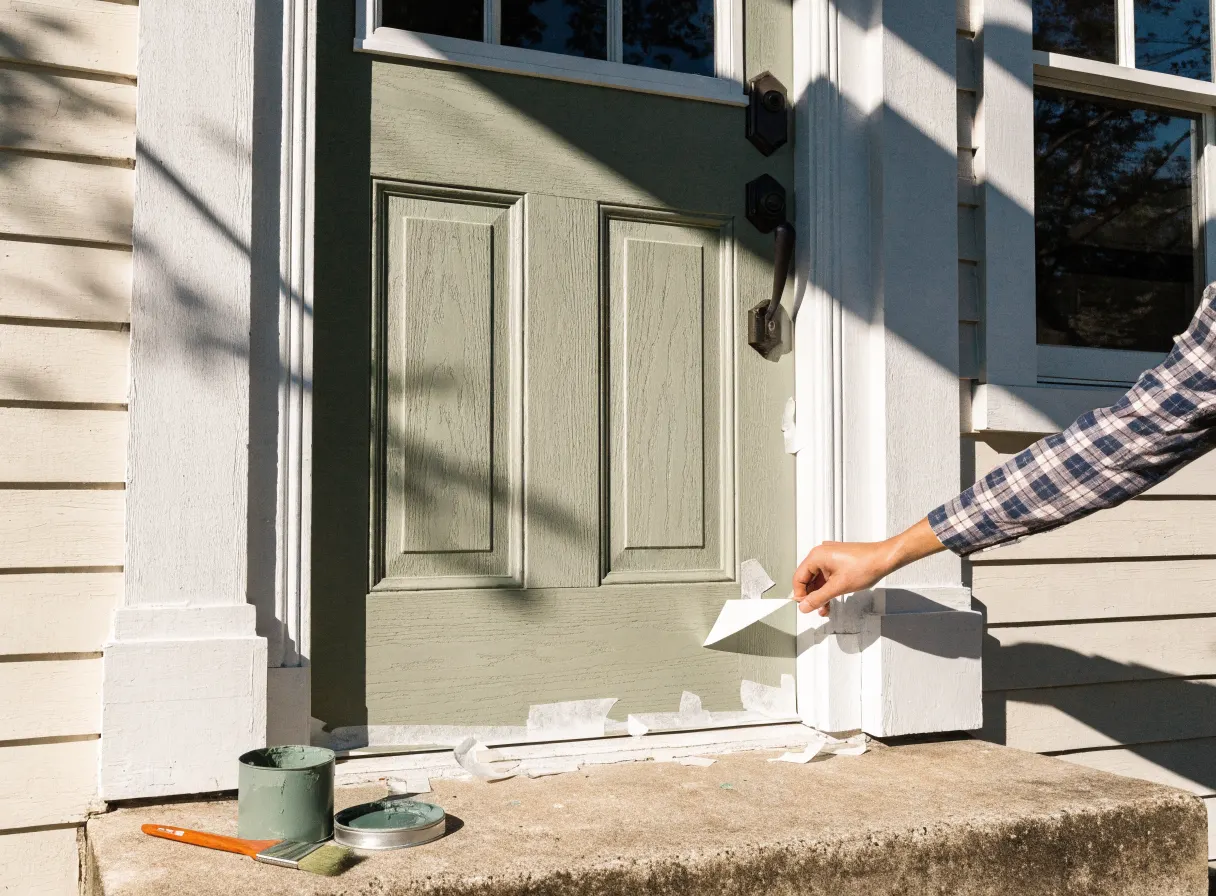
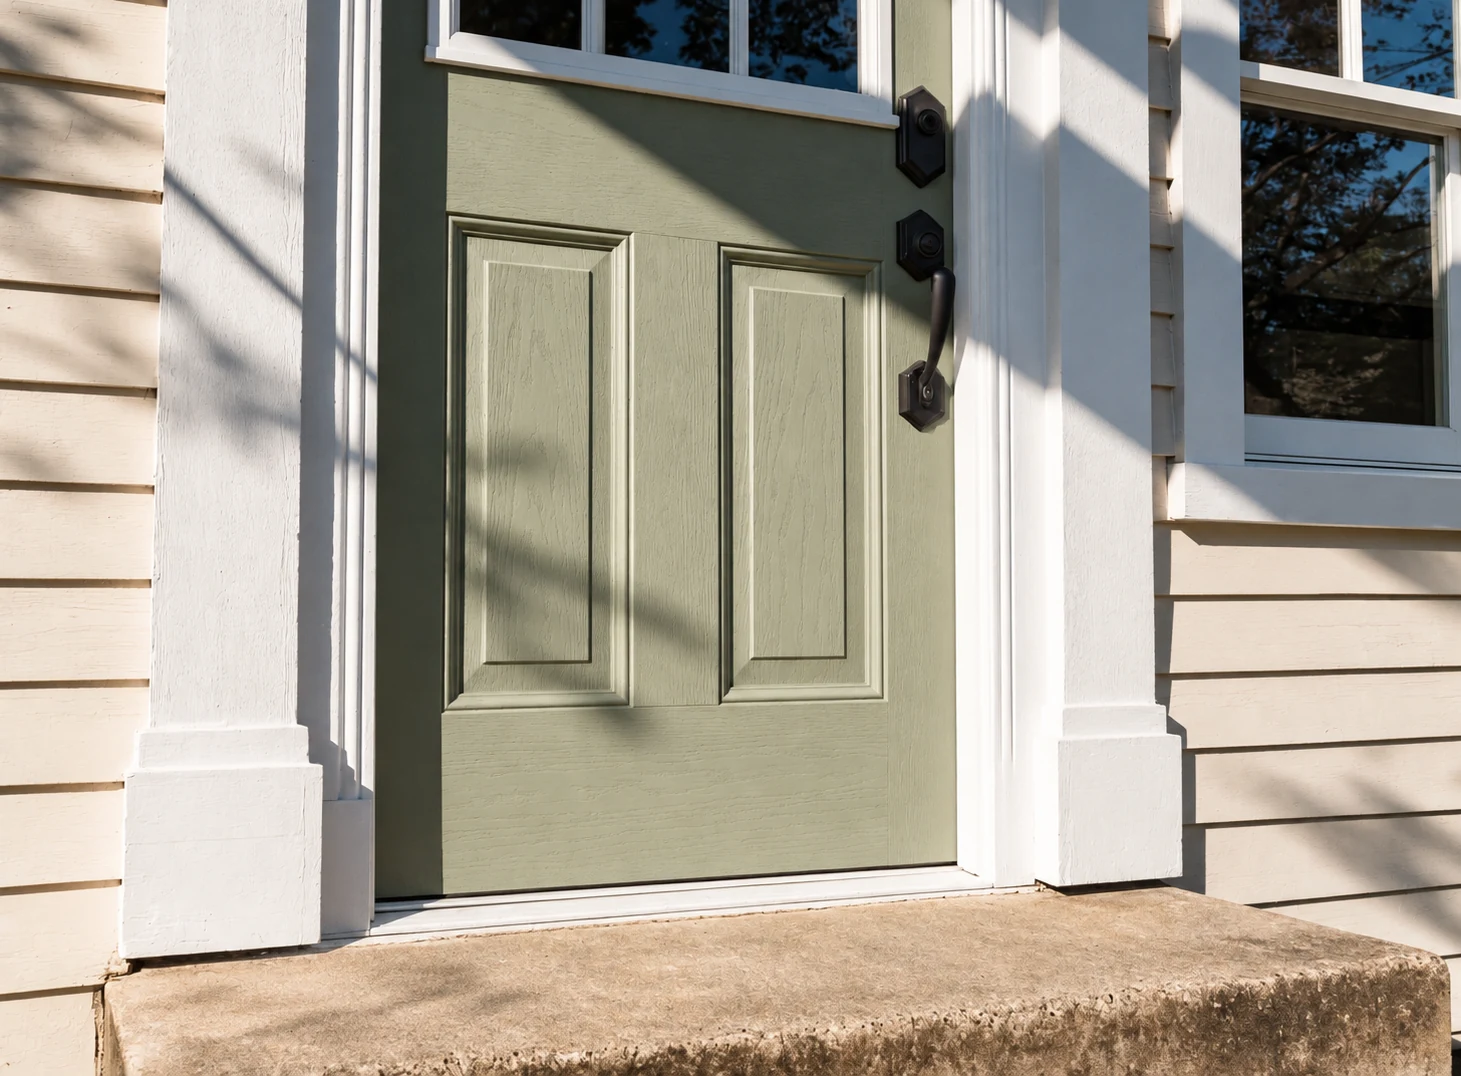
Fix visual review regressions, complete image assets and refine small-screen navigation

diff --git a/app/family.css b/app/family.css
@@ -197,7 +197,7 @@
  * then tracked-out uppercase. It tells a skimming reader what KIND of section
  * they have landed on before they read a word of the heading.
  */
-:where(.ed-eyebrow) {
+html :where(.ed-eyebrow) {
   display: flex;
   align-items: center;
   gap: 12px;
@@ -209,34 +209,34 @@
   line-height: 1.2;
   text-transform: uppercase;
 }
-:where(.ed-eyebrow)::before {
+html :where(.ed-eyebrow)::before {
   flex: 0 0 auto;
   width: 28px;
   height: 1px;
   background: currentColor;
   content: "";
 }
-:where(.ed-eyebrow-accent) { color: var(--ed-accent); }
+html :where(.ed-eyebrow-accent) { color: var(--ed-accent); }
 
-:where(.ed-display),
-:where(.ed-h2),
-:where(.ed-h2-sm),
-:where(.ed-h3) {
+html :where(.ed-display),
+html :where(.ed-h2),
+html :where(.ed-h2-sm),
+html :where(.ed-h3) {
   font-family: var(--font-cormorant, Georgia, serif);
   font-weight: 400;
   letter-spacing: var(--ed-tracking-display);
   text-wrap: balance;
 }
-:where(.ed-display) { font-size: var(--ed-fs-display); line-height: var(--ed-lh-display); }
-:where(.ed-h2) { font-size: var(--ed-fs-h2); line-height: 0.98; }
-:where(.ed-h2-sm) { font-size: var(--ed-fs-h2-sm); line-height: 1.02; }
-:where(.ed-h3) {
+html :where(.ed-display) { font-size: var(--ed-fs-display); line-height: var(--ed-lh-display); }
+html :where(.ed-h2) { font-size: var(--ed-fs-h2); line-height: 0.98; }
+html :where(.ed-h2-sm) { font-size: var(--ed-fs-h2-sm); line-height: 1.02; }
+html :where(.ed-h3) {
   font-size: var(--ed-fs-h3);
   font-weight: 500;
   letter-spacing: -0.02em;
   line-height: var(--ed-lh-heading);
 }
-:where(.ed-h4) {
+html :where(.ed-h4) {
   font-family: var(--font-cormorant, Georgia, serif);
   font-size: var(--ed-fs-h4);
   font-weight: 600;
@@ -245,10 +245,10 @@
 }
 
 /* Spacing is a default. Page-level mt/mb utilities must win. */
-:where(.ed-display, .ed-h2, .ed-h3, .ed-h4, .ed-lede, .ed-body) { margin: 0; }
+html :where(.ed-display, .ed-h2, .ed-h3, .ed-h4, .ed-lede, .ed-body) { margin: 0; }
 
 /* The serif lede: one short paragraph that carries the weight of the heading. */
-:where(.ed-lede) {
+html :where(.ed-lede) {
   font-family: var(--font-cormorant, Georgia, serif);
   font-size: var(--ed-fs-lede);
   font-weight: 500;
@@ -256,15 +256,15 @@
   text-wrap: pretty;
 }
 
-:where(.ed-body) {
+html :where(.ed-body) {
   max-width: 58ch;
   color: var(--ed-muted-ink);
   font-size: var(--ed-fs-body);
   line-height: var(--ed-lh-body);
   text-wrap: pretty;
 }
-:where(.ed-body + .ed-body) { margin-top: 1.1em; }
-:where(.ed-small) {
+html :where(.ed-body + .ed-body) { margin-top: 1.1em; }
+html :where(.ed-small) {
   color: var(--ed-muted-ink);
   font-size: var(--ed-fs-small);
   line-height: 1.6;

diff --git a/app/about/page.tsx b/app/about/page.tsx
@@ -65,21 +65,6 @@ function HeroBreadcrumbs() {
   );
 }
 
-function StatCard({ num, label }: { num: string; label: string }) {
-  /* Phones: a plain cell inside the strip the container draws. Boxed and
-     three-up, the labels wrapped onto three or four lines each. */
-  return (
-    <div className="px-2 py-3 text-center md:px-6 md:py-5 md:text-left md:rounded-sm md:bg-inverse/50 md:border md:border-inverse-foreground/20 md:backdrop-blur-md">
-      <DisplayNum className="text-inverse-foreground text-lg md:text-3xl leading-none">
-        {num}
-      </DisplayNum>
-      <div className="mt-1.5 text-[0.625rem] leading-tight tracking-[0.08em] md:text-label md:tracking-[0.1em] uppercase text-inverse-foreground/85 md:leading-snug">
-        {label}
-      </div>
-    </div>
-  );
-}
-
 export const metadata = buildPageMetadata({
   kind: 'about',
   path: '/about',
@@ -116,7 +101,7 @@ export default function AboutPage() {
             priority
           />
           <div className="absolute inset-0 pointer-events-none bg-gradient-to-t from-inverse/90 via-inverse/60 to-transparent" />
-          <div className="absolute inset-0 pointer-events-none bg-gradient-to-r from-inverse/60 via-inverse/15 to-transparent" />
+          <div className="absolute inset-0 pointer-events-none bg-gradient-to-r from-inverse/90 via-inverse/60 to-inverse/10" />
           <div className="absolute inset-x-0 top-0 h-44 pointer-events-none bg-gradient-to-b from-inverse/70 via-inverse/30 to-transparent" />
           <div className="absolute inset-x-0 bottom-0 h-24 pointer-events-none bg-gradient-to-t from-background via-background/40 to-transparent" />
           <div
@@ -153,11 +138,14 @@ export default function AboutPage() {
                 <a href="/#consult">{CTA_SECONDARY}</a>
               </Button>
             </div>
-            <div className="grid grid-cols-3 max-w-xl divide-x divide-inverse-foreground/15 rounded-sm border border-inverse-foreground/20 bg-inverse/55 backdrop-blur-md md:gap-3 md:divide-x-0 md:rounded-none md:border-0 md:bg-transparent md:backdrop-blur-none">
+            <dl className="ed-hero-facts">
               {HERO_STATS.map((stat) => (
-                <StatCard key={stat.num} num={stat.num} label={stat.label} />
+                <div key={stat.label}>
+                  <dt>{stat.label}</dt>
+                  <dd>{stat.num}</dd>
+                </div>
               ))}
-            </div>
+            </dl>
           </div>
         </section>
 

diff --git a/components/Navigation.tsx b/components/Navigation.tsx
@@ -154,7 +154,7 @@ export function Navigation() {
                 <Button
                   variant="ghost"
                   size="icon"
-                  className="h-11 w-11"
+                  className="h-11 w-11 shrink-0"
                   aria-label="Open navigation menu"
                   data-testid="button-mobile-menu-open"
                 >
@@ -174,13 +174,13 @@ export function Navigation() {
                   </Dialog.Description>
 
                   {/* Header row */}
-                  <div className="flex items-center justify-between px-6 h-[60px] border-b border-border/40 shrink-0">
+                  <div className="flex items-center justify-between gap-3 px-4 h-[60px] border-b border-border/40 shrink-0 [&_img]:max-w-[65vw] [&_img]:h-auto">
                     <Logo />
                     <Dialog.Close asChild>
                       <Button
                         variant="ghost"
                         size="icon"
-                        className="h-11 w-11"
+                        className="h-11 w-11 shrink-0"
                         aria-label="Close navigation menu"
                         data-testid="button-mobile-menu-close"
                       >

diff --git a/app/services/page.tsx b/app/services/page.tsx
@@ -73,7 +73,7 @@ export default function ServicesIndexPage() {
 
       <PageHeroBand
         imageSrc={SITE_IMAGES.statementBand}
-        imageAlt="Well-maintained Treasure Valley home interior after a handyman visit"
+        imageAlt="Representative service image of a Boise Handyman Co worker painting window trim"
       >
         <Breadcrumbs items={[{ name: 'Home', href: '/' }, { name: 'Services' }]} />
         <p className="ed-eyebrow mt-8" style={{ color: 'rgb(255 255 255 / 0.72)' }}>Our services</p>
@@ -104,7 +104,7 @@ export default function ServicesIndexPage() {
                 <div className="relative min-h-[clamp(280px,38vw,460px)] overflow-hidden">
                   <Image
                     src={getServiceBackground(lead.slug)}
-                    alt={`${lead.name} handyman service by ${SITE_CONFIG.name}`}
+                    alt={`Representative ${lead.name.toLowerCase()} service imagery`}
                     fill
                     sizes="(max-width: 1024px) 100vw, 55vw"
                     quality={72}

diff --git a/shared/blogImageRegistry.ts b/shared/blogImageRegistry.ts
@@ -115,7 +115,7 @@ export const BLOG_IMAGE_REGISTRY: Record<string, BlogImageEntry> = {
   },
   'home-repairs-before-selling-boise': {
     hero: '/images/handyman/front-door-repaint.webp',
-    alt: 'Freshly repainted sage green craftsman front door with painter\'s tape being peeled away',
+    alt: 'Representative freshly repainted sage-green front door with white trim and black hardware',
     topicTags: ["home repairs","selling a house","boise","punch list","repairs"],
     source: 'handyman',
   },
@@ -151,7 +151,7 @@ export const BLOG_IMAGE_REGISTRY: Record<string, BlogImageEntry> = {
   },
   'interior-paint-touch-up-guide': {
     hero: '/images/handyman/service-painting.webp',
-    alt: 'Painter cutting in crisp paint along white window trim with an angled brush and painter\'s tape',
+    alt: 'Representative Boise Handyman Co worker painting white window trim over a protective drop cloth',
     topicTags: ["painting","paint touch-up","repairs","boise"],
     source: 'handyman',
   },

diff --git a/components/sections/StatementBandSection.tsx b/components/sections/StatementBandSection.tsx
@@ -7,7 +7,7 @@ export function StatementBandSection() {
     <section className="relative h-48 md:h-64 overflow-hidden">
       <Image
         src={SITE_IMAGES.statementBand}
-        alt="Warm, well-maintained living space in a Treasure Valley, Idaho home"
+        alt="Representative service image of a Boise Handyman Co worker painting window trim"
         fill
         loading="lazy"
         quality={65}
